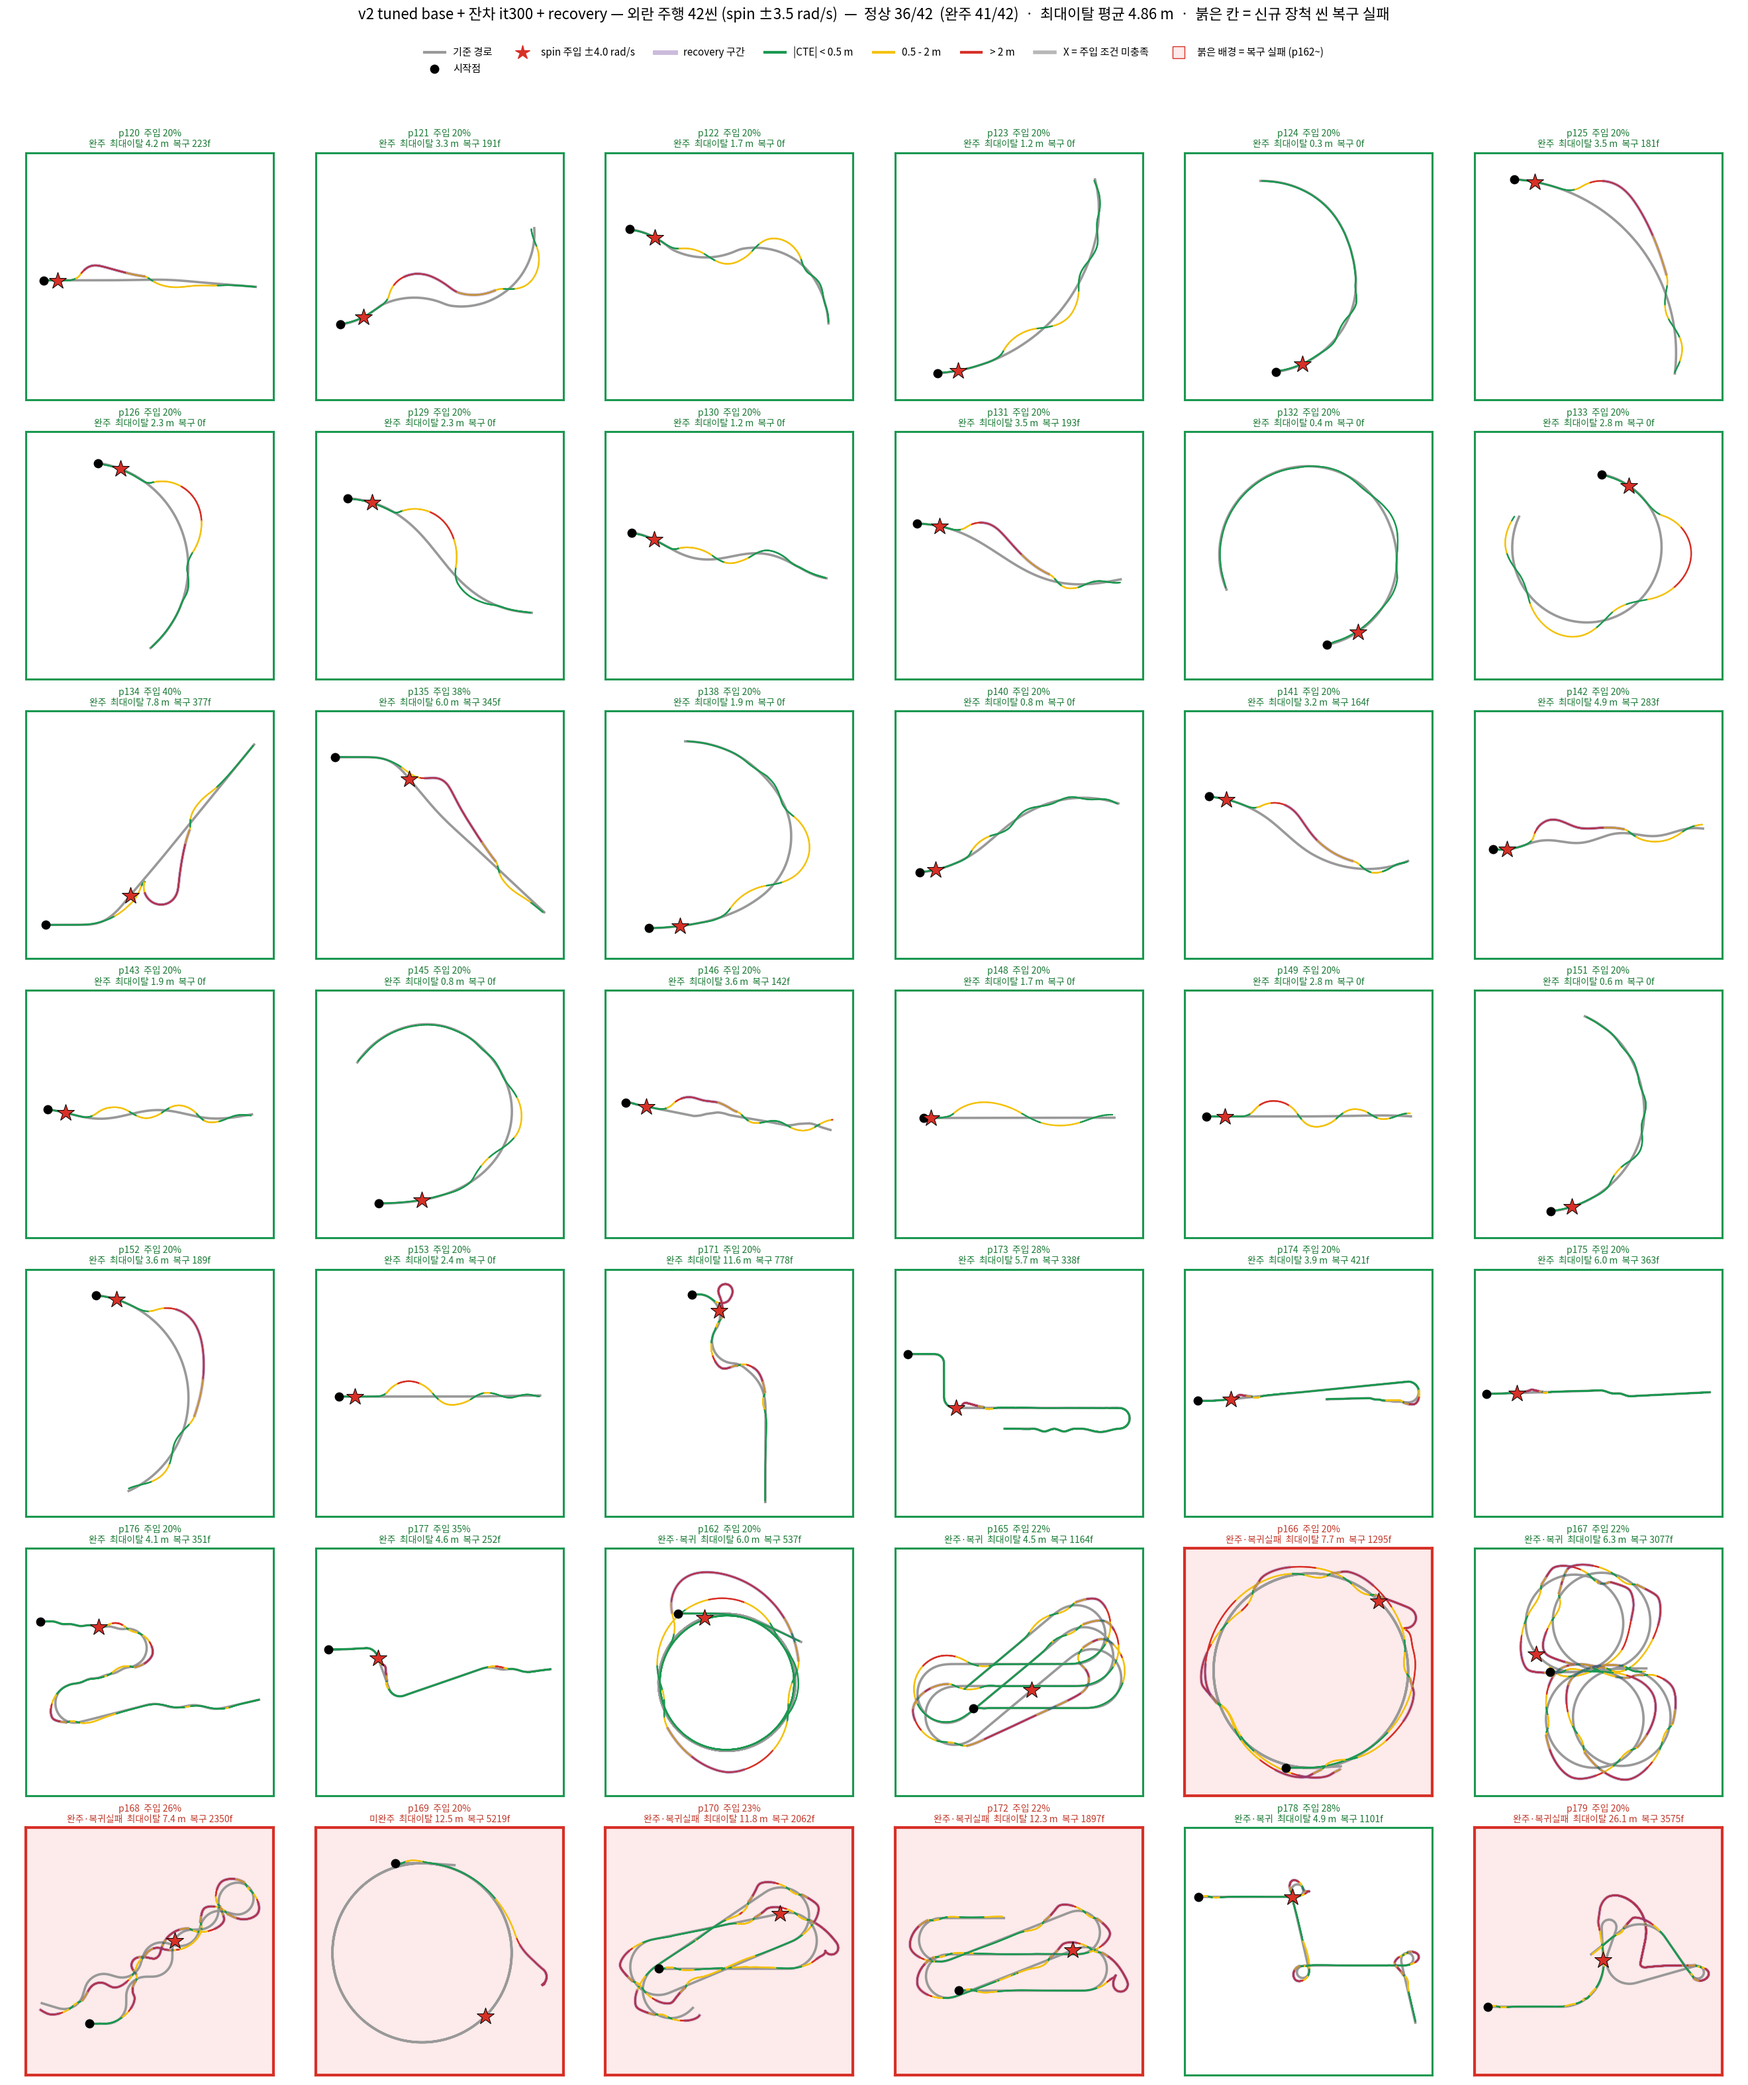
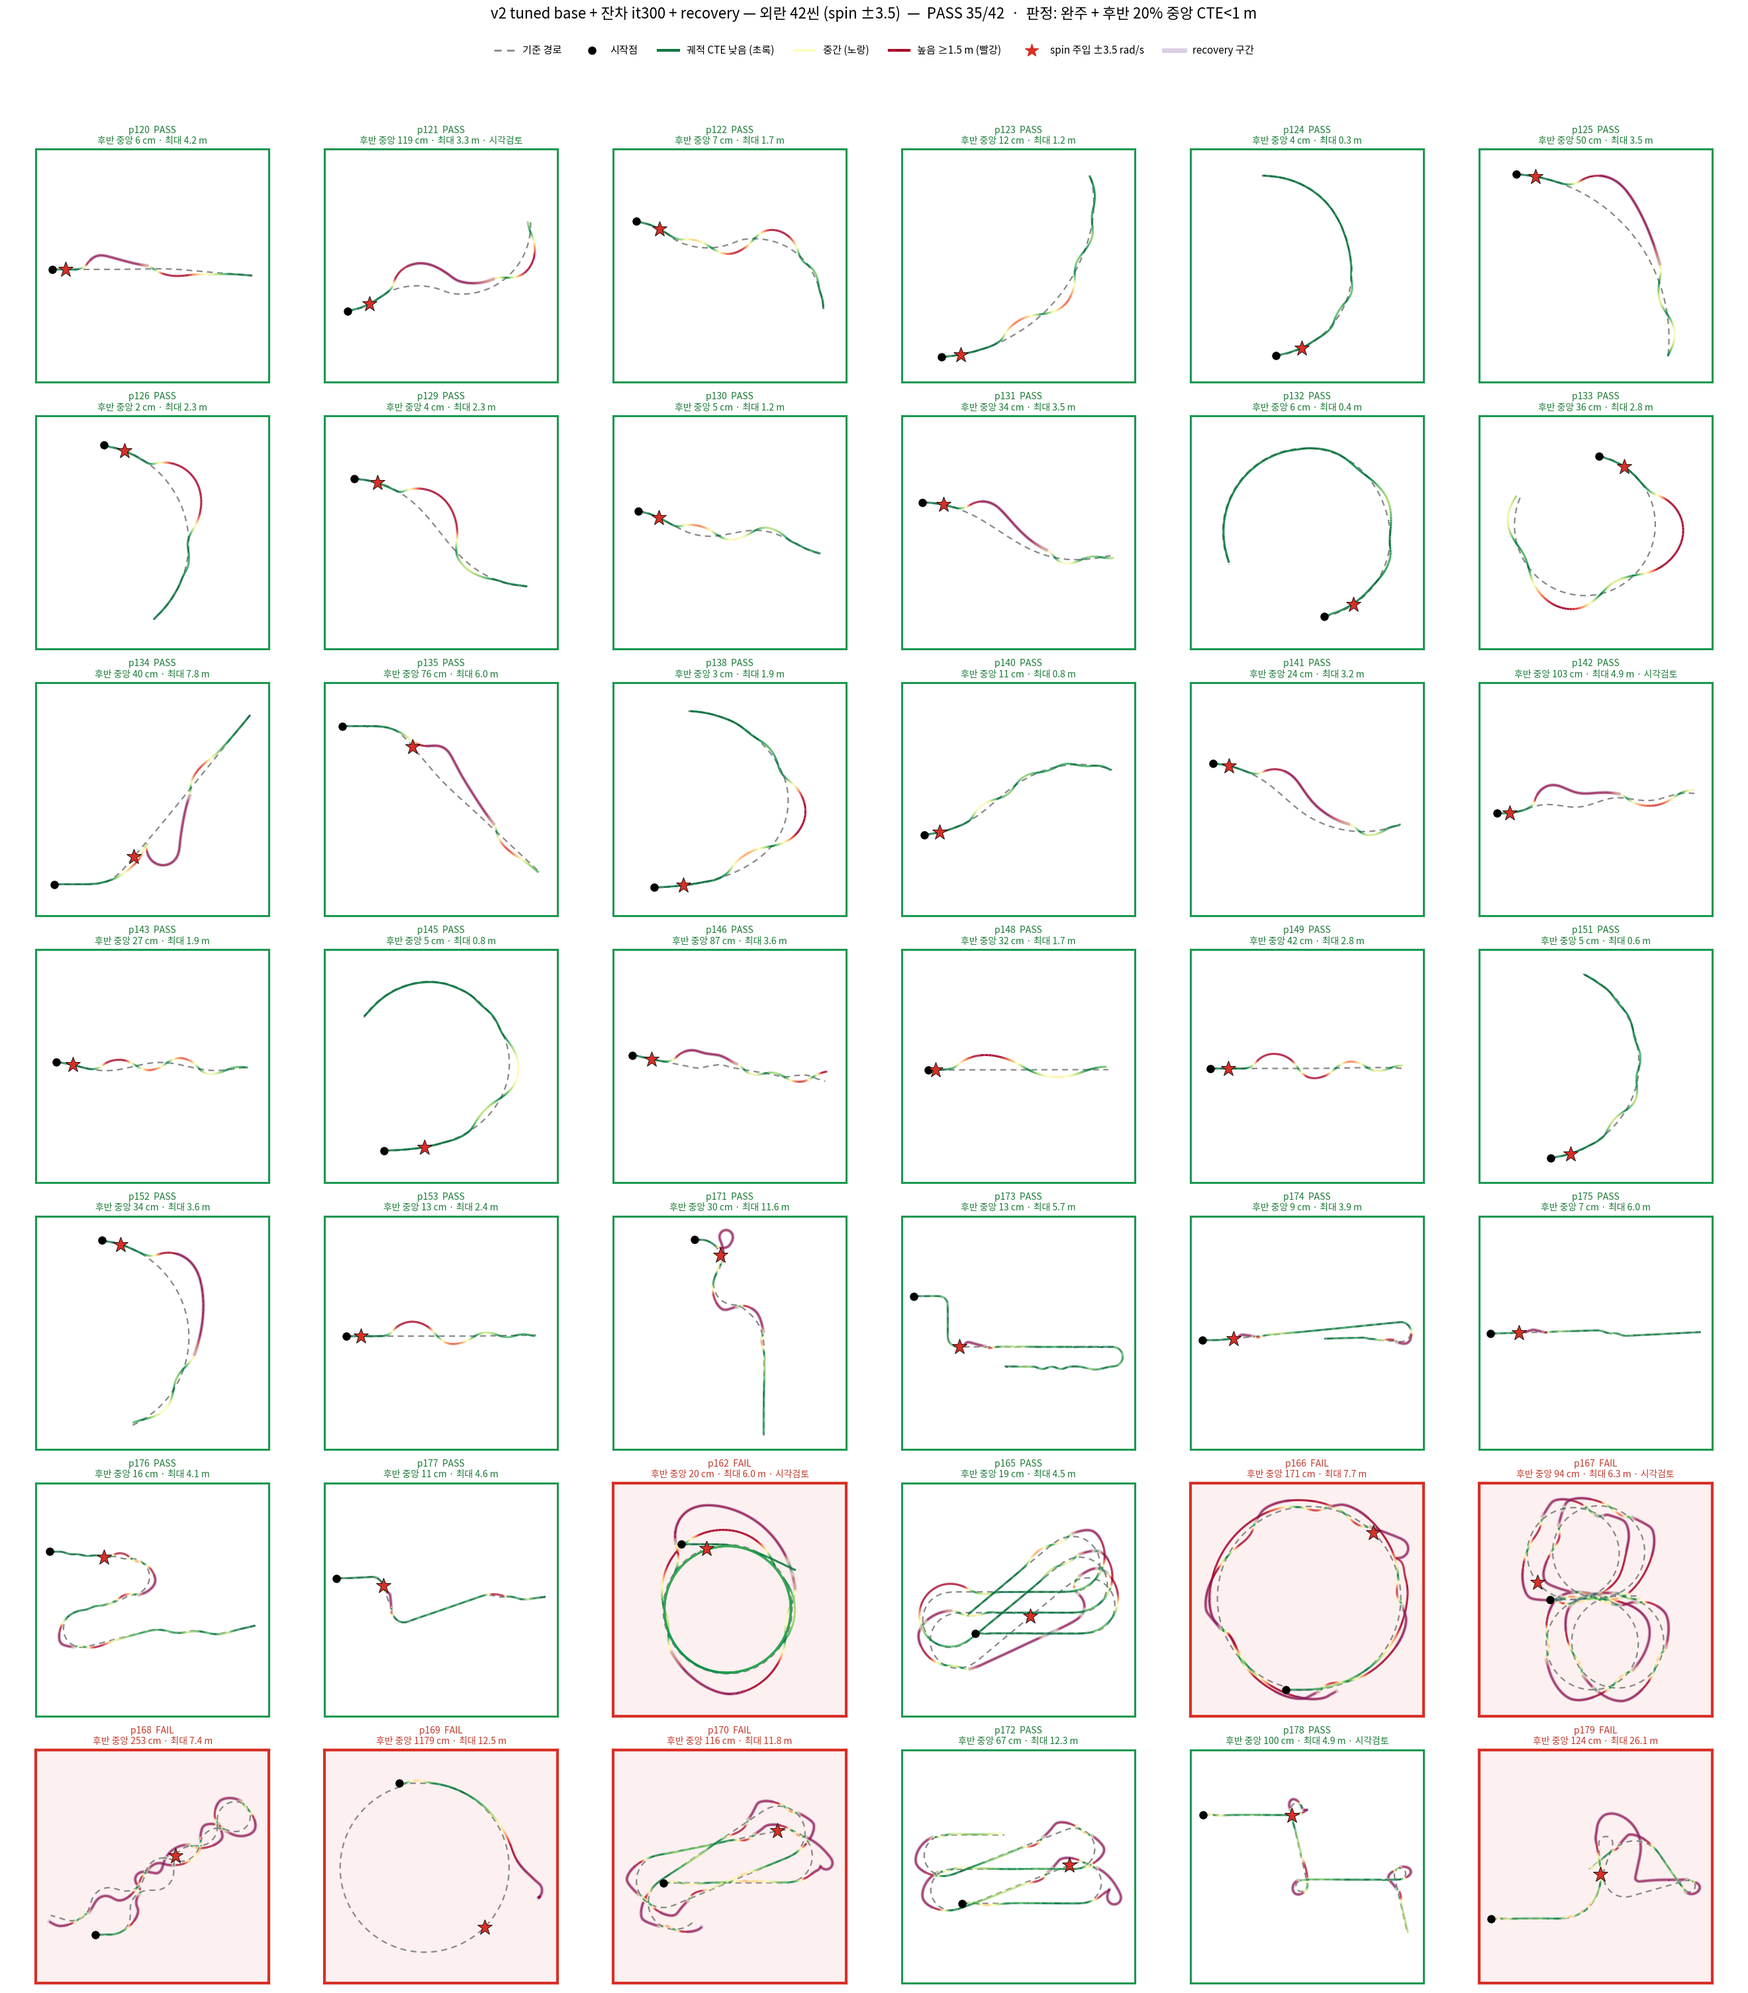
mod1

diff --git a/car_test/docs/중간보고/[DIGLAB][26-08-12][정만교]_fix_sweeptable.md b/car_test/docs/중간보고/[DIGLAB][26-08-12][정만교]_fix_sweeptable.md
@@ -11,8 +11,9 @@
 - **채택: new sweeptable + residual** — `중·고속 강건성`이 근거. 중속 cap saturation 33 → 10%
 
 **미해결**
-
-* 외란 주행에 대해서 더 많은 데이터 추가의 필요성이 보임
+* 외란 주행에서 조향이 부족한 부분이 보이는데 3d mesh에 의한 언더스티어 의심되어 확인중
+* 외란 주행에 대해서 강건하지 않은 모습을 보임.
+* 3D mesh를 제거하여 mesh에 의한 노이즈를 없애고, 중*고속 데이터량을 맞춰서 재학습 예정
 
 ## 용어
 
@@ -86,7 +87,7 @@ SDK 파일은 건드리지 않고 격자만 교체.
 
 #### 신규 10씬 (제어기 단독)
 
-| v1 tuned — 311 cm, 완주 8/10 | v2 tuned — 91 cm, 완주 10/10 |
+| 기존 v1 tuned, 완주 8/10 |신규 v2 tuned, 완주 10/10 |
 |:---:|:---:|
 | <img src="../../res_wjdaksry/0805/82_신규10씬_v1테이블_기존게인.png" width="480"> | <img src="../../res_wjdaksry/0805/87_신규10씬_v2테이블_KW램프_base.png" width="480"> |
 | p178·p179 발산 (1034 / 1485 cm) | 두 씬 모두 완주 (262 / 341 cm) |
@@ -94,7 +95,7 @@ SDK 파일은 건드리지 않고 격자만 교체.
 
 ![](../../res_wjdaksry/0805/86_32씬_v2테이블_KW램프_base.png)
 
-* 기존 32씬
+* 기존 32씬에 대한 주행은 두 제어기 모두 동일하게 완료함(저속 + 중속 영역)
 
 > tuned = sweeptable + K_W 4.0~9.0 , a_lat 5.5/8.5
 
@@ -104,7 +105,7 @@ SDK 파일은 건드리지 않고 격자만 교체.
 
 
 * 신규 장척 10씬. 빨강은 p178·p179 둘뿐
-       * 179 는 3D mesh에 의해 차량이 공중에 뜸 &rarr; 물리적으로 못줄이는 잔차
+       * 179 는 3D mesh에 의해 차량이 공중에 뜨는 현상 발견 &rarr; 물리적으로 못줄이는 잔차
 
 ---
 
@@ -112,10 +113,10 @@ SDK 파일은 건드리지 않고 격자만 교체.
 
 sweeptable freeze + Residual RL 
 
-| | 기존 32씬 | 신규 장척 10씬 | 외란 28씬 |
-|---|---|---|---|
-| base 단독 | 3.9 cm | 91 cm (10/10) | — |
-| **+ 잔차 it300** | 5.2 cm | **52.9 cm (10/10)** | **완주 24/28** |
+| | 기존 32씬 | 신규 장척 10씬 |
+|---|---|---|
+| sweeptable(v2) | 3.9 cm | 91 cm (10/10) |
+| **+RL_it300** | 5.2 cm | **52.9 cm (10/10)** |
 
  
 
@@ -137,14 +138,16 @@ sweeptable freeze + Residual RL
 
 | 항목 | 무외란 | 외란 (spin ±4.0 rad/s) |
 |---|---|---|
-| 완주 | **32/32** | **28/32** |
+| 완주 | **32/32** | **25/32** |
 | 평균 CTE | **5.2 cm** | 49 cm (recovery 제외 구간) |
 | 중앙 CTE | 4.2 cm | — |
 | 씬별 최대 이탈 평균 | 12.8 cm | 5.93 m |
 | 전 씬 최대 이탈 | 0.58 m | 19.81 m |
 | recovery 진입 | 없음 | 25/32 씬 · 평균 569 f |
 
-**외란 32씬 중 28 완주, 25씬이 recovery 를 거쳐 복귀.** 미완주 4씬은 recovery 가 경로로 되돌리지 못한 경우다. 무외란 대비 평균 CTE 가 5.2 → 49 cm 로 벌어지는데, 이는 spin 직후 이탈 구간이 평균에 들어간 결과다.
+**외란 32씬 중 25 완주, 25씬이 recovery 를 거쳐 복귀.** 
+
+고곡률에서 `understeer 현상`이 발생하는데 3D mesh에 의한 것인지, 모델의 학습 오류 인지 확인이 필요함
 
 
 
@@ -167,5 +170,6 @@ sweeptable freeze + Residual RL
 ---
 
 ### next step
-
-RL_recovery 확인 후 장애물 회피 훈련(진행 보류 했던 것 수정 및 재개)
+1. 고속 * 저속 데이터 분포 맞춰서 재학습
+2. RL_recovery 점검
+3. 장애물 회피 훈련(진행 보류 했던 것 수정 및 재개)
